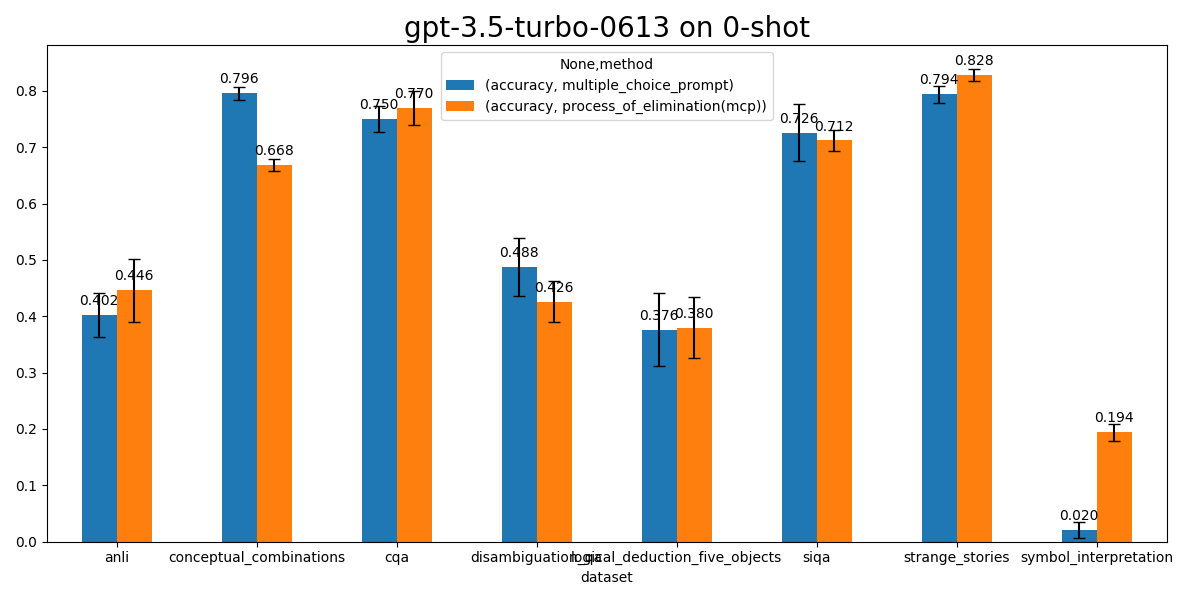
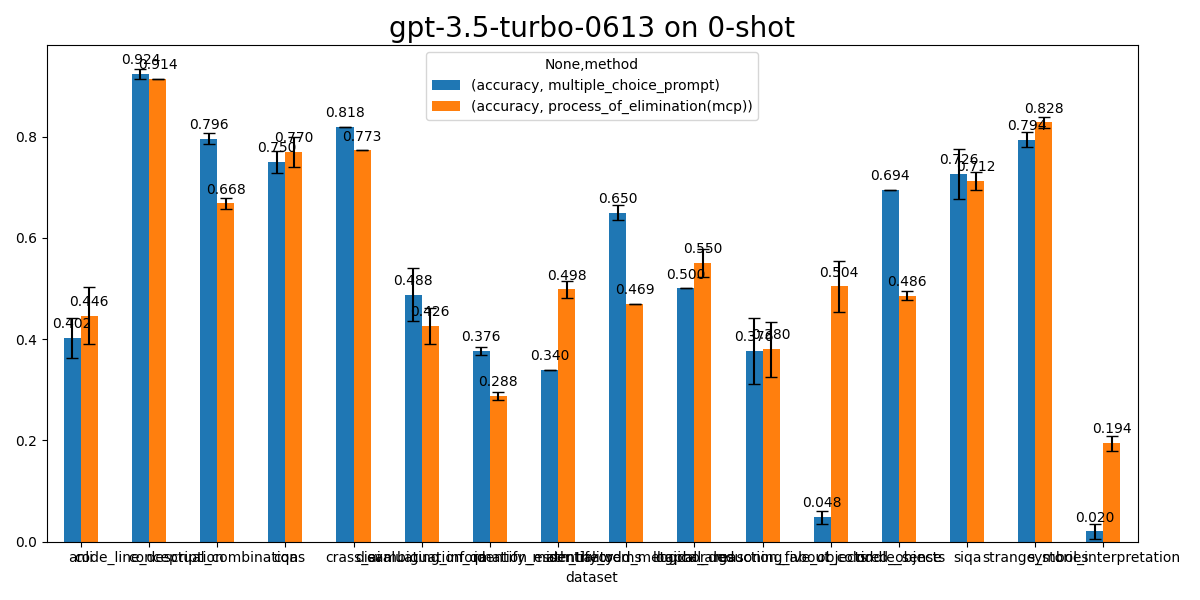
LLM

diff --git a/results/llm/gpt-3.5-turbo-0613_0_shot.md b/results/llm/gpt-3.5-turbo-0613_0_shot.md
@@ -1,10 +1,18 @@
 | Task   |   MCP |   PoE |   PoE-MCP |
 |:-------|------:|------:|----------:|
-| ANLI   |  40.2 |  44.6 |       4.4 |
-| CC     |  79.6 |  66.8 |     -12.8 |
-| CQA    |  75   |  77   |       2   |
-| DQA    |  48.8 |  42.6 |      -6.2 |
-| LD     |  37.6 |  38   |       0.4 |
-| SIQA   |  72.6 |  71.2 |      -1.4 |
-| SS     |  79.4 |  82.8 |       3.4 |
+| RACO   |   4.8 |  50.4 |      45.6 |
 | SIT    |   2   |  19.4 |      17.4 |
+| IMT    |  34   |  49.8 |      15.8 |
+| LA     |  50   |  55   |       5   |
+| ANLI   |  40.2 |  44.6 |       4.4 |
+| SS     |  79.4 |  82.8 |       3.4 |
+| CQA    |  75   |  77   |       2   |
+| LD     |  37.6 |  38   |       0.4 |
+| CLD    |  92.4 |  91.4 |      -1   |
+| SIQA   |  72.6 |  71.2 |      -1.4 |
+| CAI    |  81.8 |  77.3 |      -4.5 |
+| DQA    |  48.8 |  42.6 |      -6.2 |
+| EIE    |  37.6 |  28.8 |      -8.8 |
+| CC     |  79.6 |  66.8 |     -12.8 |
+| IOM    |  65   |  46.9 |     -18.1 |
+| RS     |  69.4 |  48.6 |     -20.8 |

diff --git a/results/llm/gpt-3.5-turbo-0613_0_shot_lr.md b/results/llm/gpt-3.5-turbo-0613_0_shot_lr.md
@@ -1,0 +1,6 @@
+| Task   |   MCP |   PoE |   PoE-MCP |
+|:-------|------:|------:|----------:|
+| RACO   |   4.8 |  50.4 |      45.6 |
+| IMT    |  34   |  49.8 |      15.8 |
+| LA     |  50   |  55   |       5   |
+| CLD    |  92.4 |  91.4 |      -1   |
